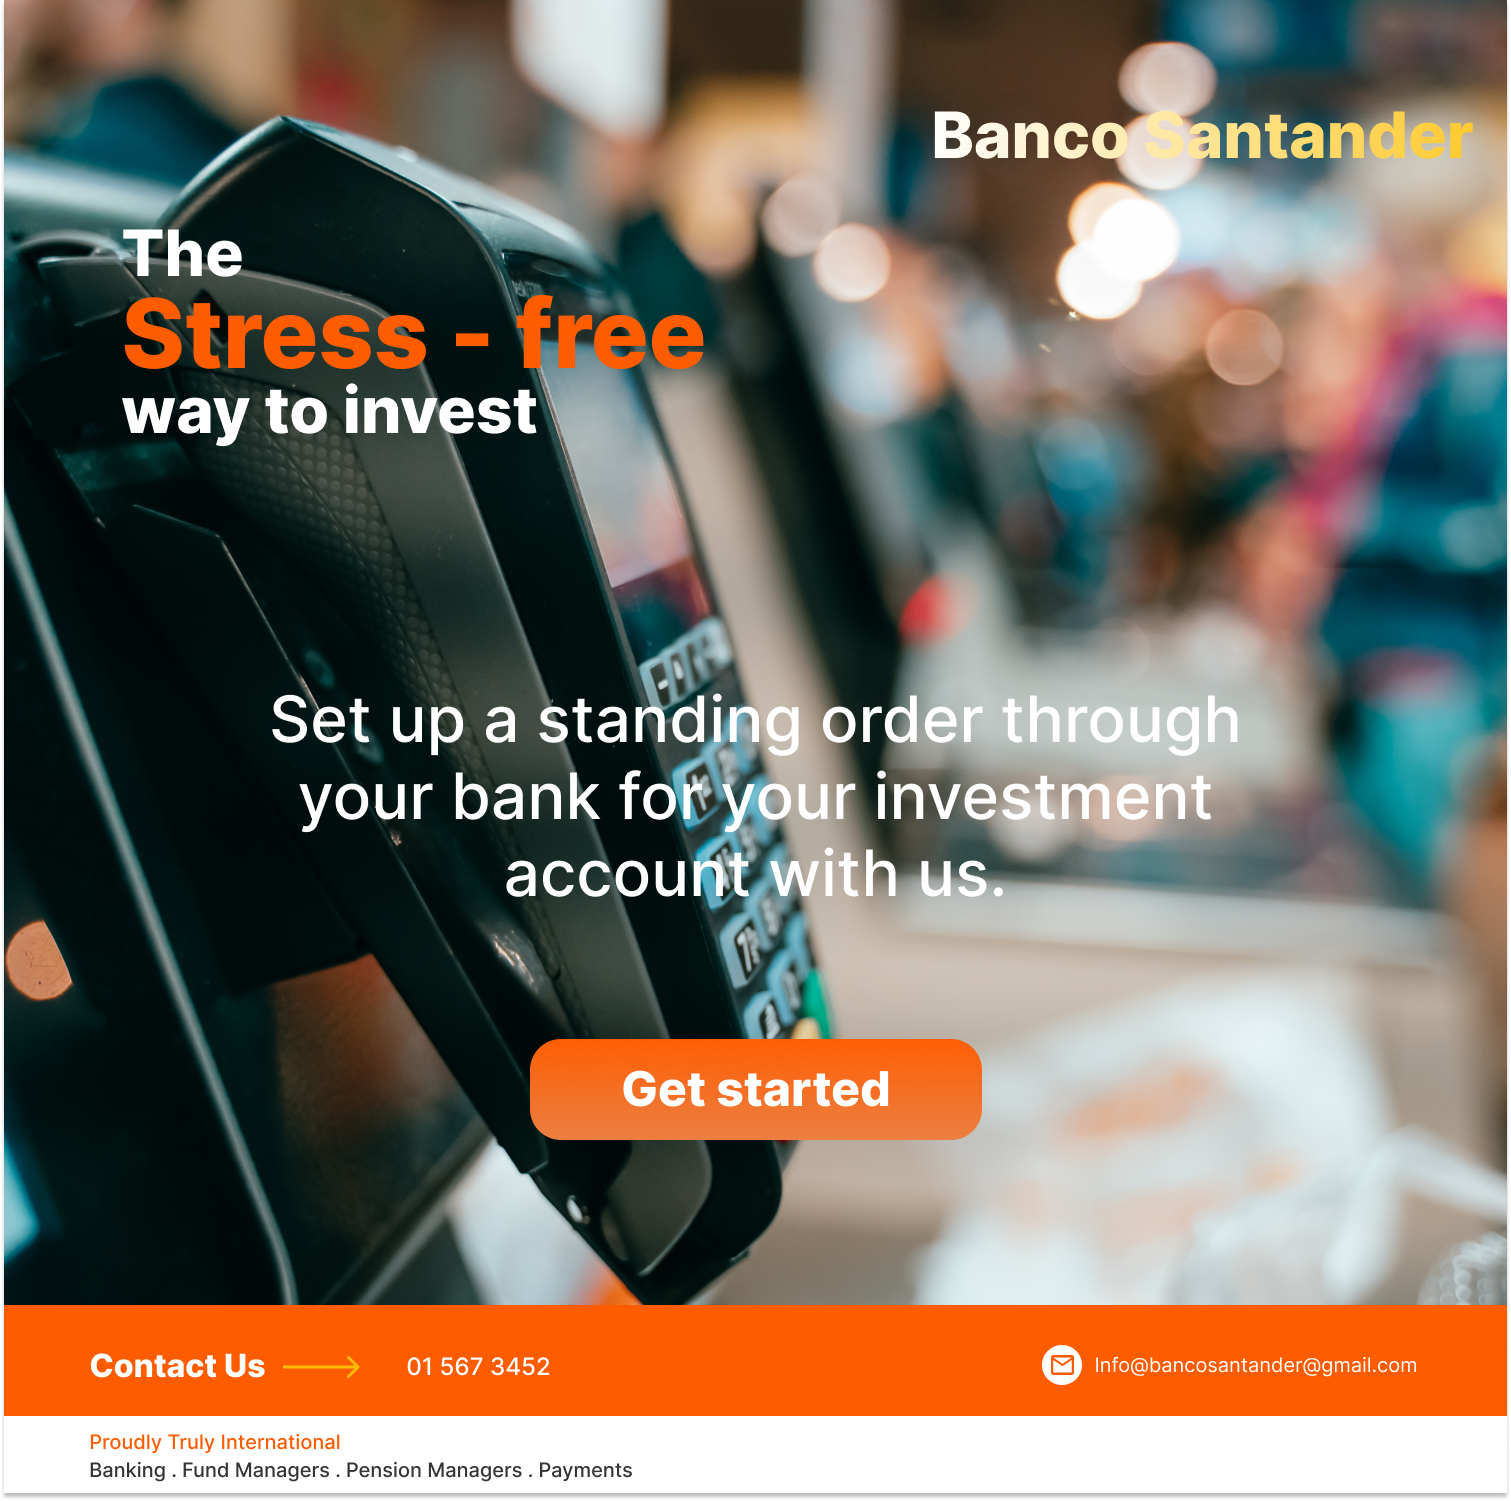
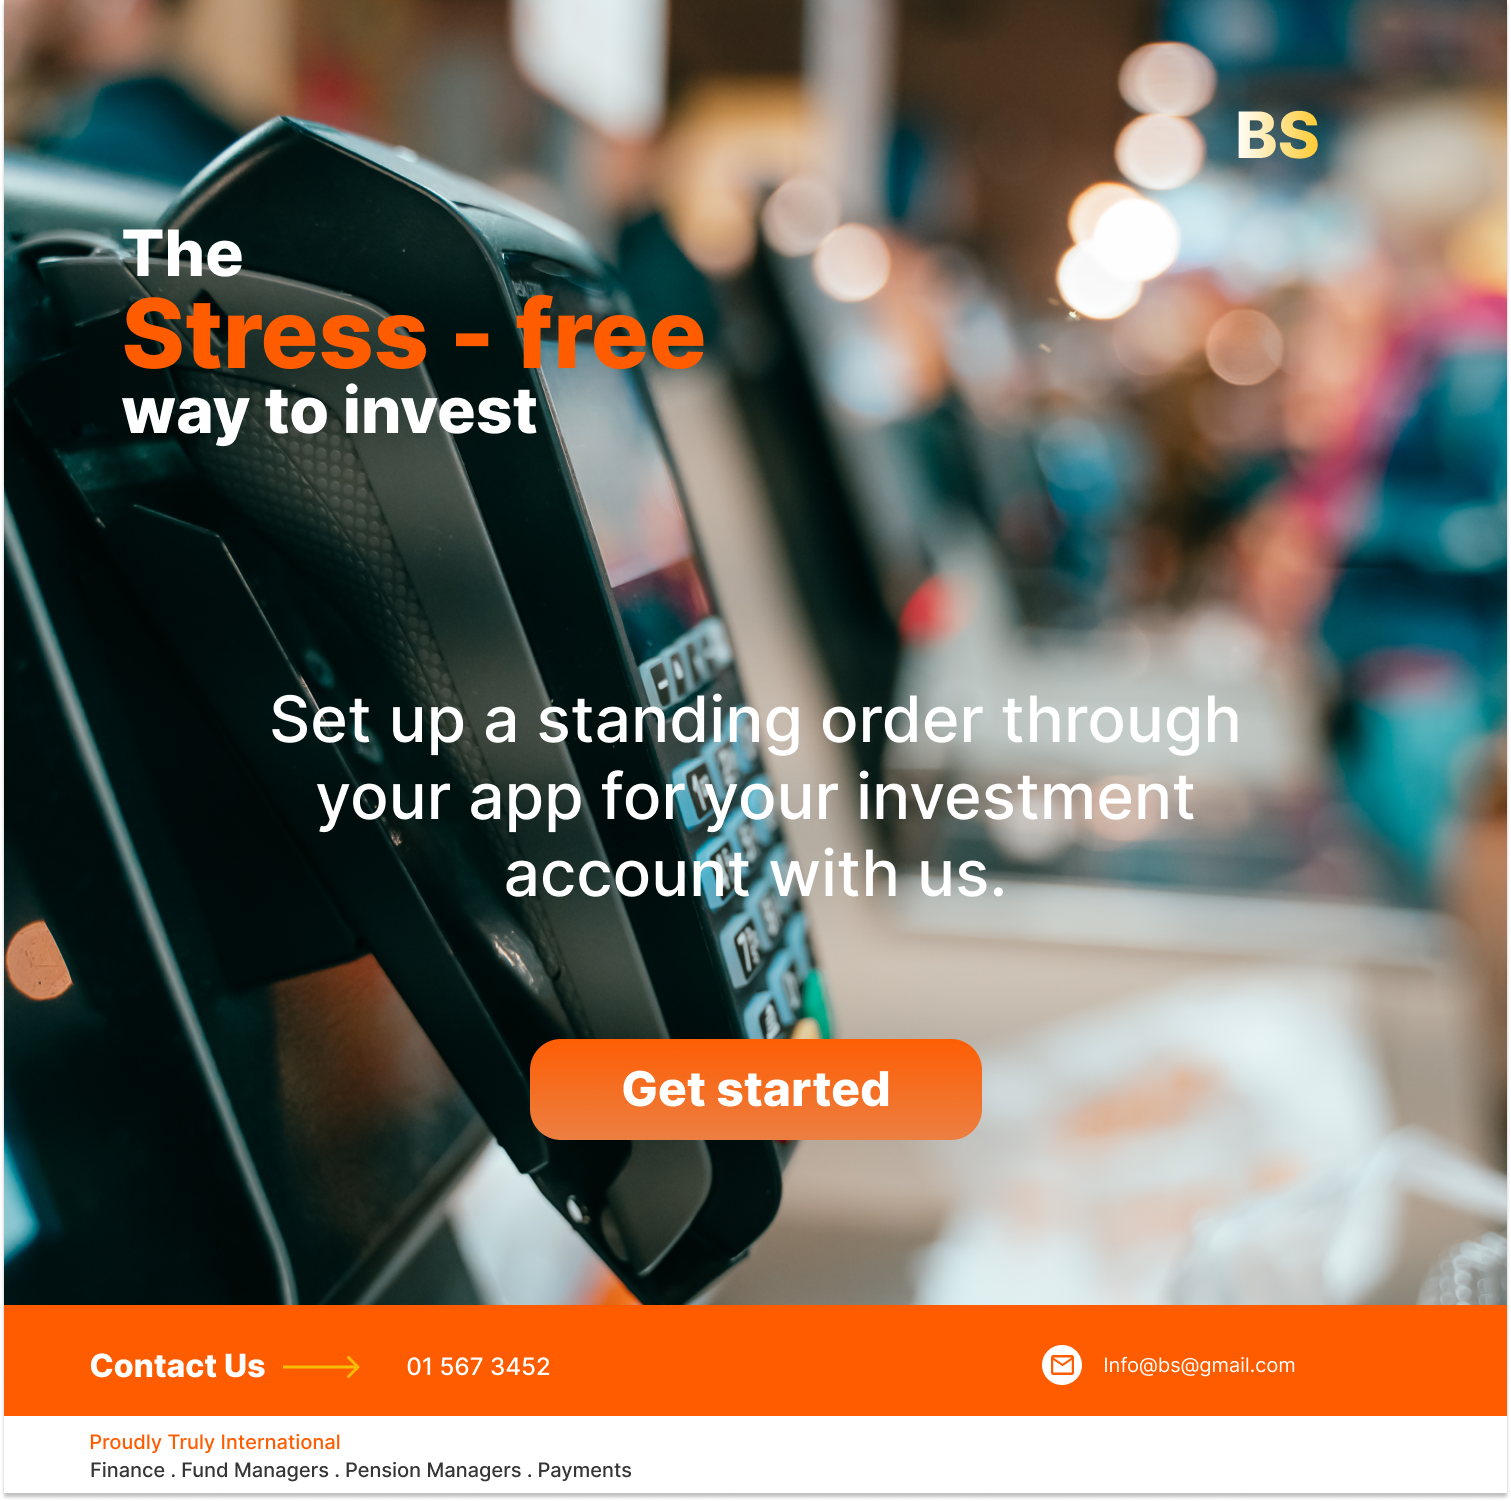
new

diff --git a/index.html b/index.html
@@ -1,7 +1,7 @@
 <!DOCTYPE html>
 <html>
 <head>
-  <title>banco Santander bank Login Page</title>
+  <title>Login Page</title>
   <link rel="stylesheet" type="text/css" href="style.css">
 </head>
 <body>
@@ -30,15 +30,15 @@
       <div class="row">
         <div class="col">
           <h3>Contact Us</h3>
-          <p>123 Bank Street</p>
+          <p>123 Street</p>
           <p>City, State ZIP</p>
         
         </div>
         <div class="col">
           <h3>Services</h3>
           <ul>
-            <li><a href="#">Personal Banking</a></li>
-            <li><a href="#">Business Banking</a></li>
+            <li><a href="#">Personal Finance</a></li>
+            <li><a href="#">Business Finance</a></li>
             <li><a href="#">Loans</a></li>
             <li><a href="#">Investments</a></li>
           </ul>

diff --git a/nextt.html b/nextt.html
@@ -7,7 +7,7 @@
   <meta http-equiv="X-UA-Compatible" content="IE=edge">
   <link rel="icon" href="" type="image/x-icon">
   <link rel="stylesheet" href="style.css">
-  <title>Wilson Dashboard banco-Santander-bank</title>
+  <title>Wilson Dashboard</title>
 
   <!-- Bootstrap CSS CDN -->
 
@@ -24,7 +24,7 @@
         </div>
         <div class="card">
             <div class="card__information">
-                <div class="card__information__text">Your Banco Santander card is being produced</div>
+                <div class="card__information__text">Your card is being produced</div>
                 <img src="VISA.png">
             </div>
             <button class="card__button">Check status</button>

diff --git a/style.css b/style.css
@@ -419,6 +419,8 @@ footer {
 .containerr {
   max-width: 960px;
   margin: 0 auto;
+  align-items: center;
+  justify-content: center;
 }
 
 .row {
